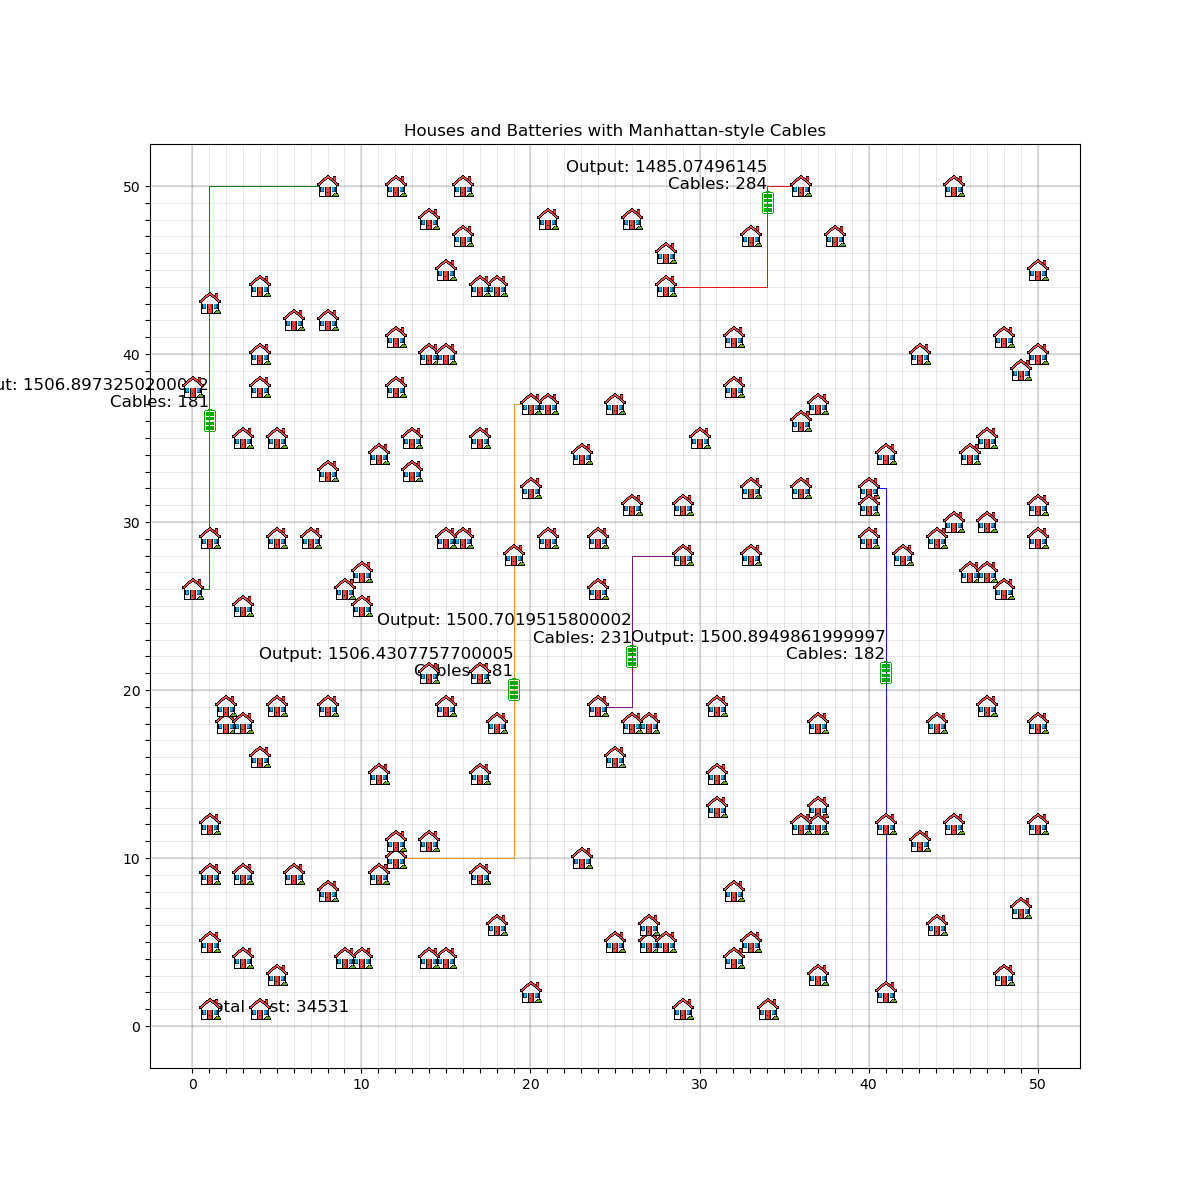
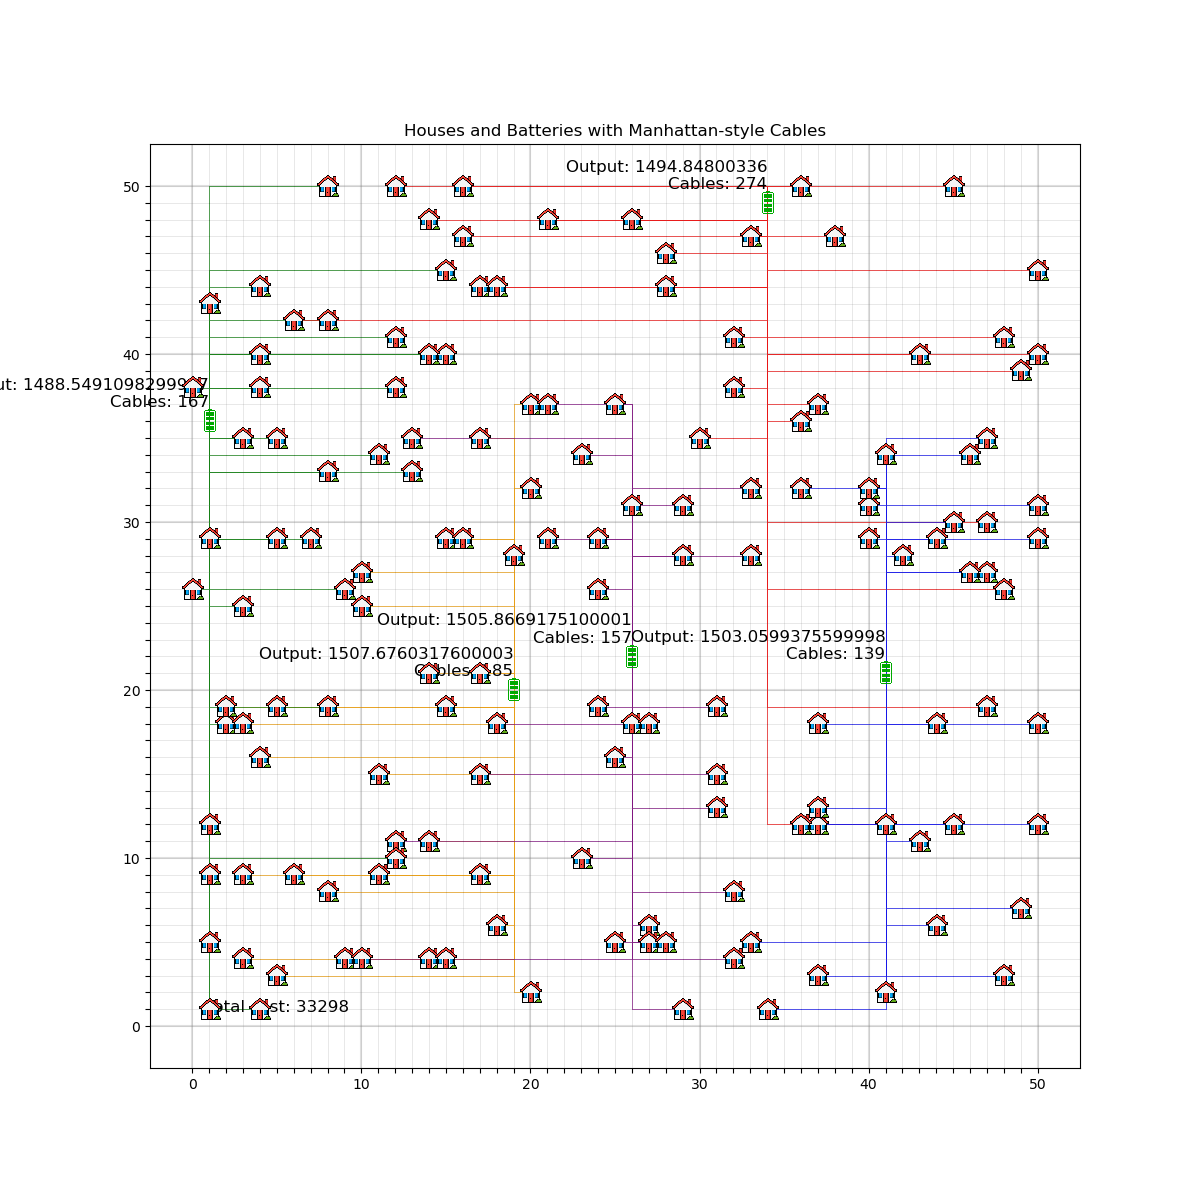
fixed the namings of the alg classes

diff --git a/code/helpers/visualize.py b/code/helpers/visualize.py
@@ -54,9 +54,8 @@ def visualize(district, district_number):
 
     # Store the colors of the batteries to later give the cables that color
     battery_colors = ['orange', 'green', 'red', 'blue', 'purple']
-    
     # Plot batteries
-    for index, battery in enumerate(district.batteries):
+    for battery in experiment_instance.batteries:
         plot_battery(battery_image, battery.x, battery.y)
         
         # Add 5000 to the total cost for every battery
@@ -82,14 +81,6 @@ def visualize(district, district_number):
 
         # Every cable adds 9 to the total cost, since this is the cost formula
         total_cost += total_cables * 9
-
-        #Fix for nearest object to draw cables connected to cables
-        for cable in district.cables:
-            #loop over the batteries by their color index and plot them if connected to a cable
-            battery_color_index = next((index for index, battery in enumerate(district.batteries) if cable.connected_battery == battery), None)
-            if battery_color_index is not None:
-                plt.plot([cable.start_x, cable.end_x], [cable.start_y, cable.end_y], linewidth=0.5, color=battery_colors[battery_color_index], zorder=0)
-
 
         # Annotate the battery with the total output and total cables
         plt.annotate(f'Output: {total_output}\nCables: {total_cables}', 

diff --git a/main.py b/main.py
@@ -9,6 +9,9 @@ import code.classes.cable
 import code.classes.battery
 from code.classes.district import District
 from code.algorithm.random_alg import RandomAlgorithm
+from code.algorithm.nearest_object_rand import nearest_object_rand
+from code.algorithm.nearest_object_x import nearest_object_x
+from code.algorithm.nearest_object_y import nearest_object_y
 from code.helpers.visualize import visualize
 from code.algorithm.nearest_object import nearest_object
 from code.algorithm.nearest_battery import nearest_battery
@@ -28,7 +31,7 @@ def main():
         print(f'District {i+1}')
         # set up experiment
         experiment = District(districts_houses[i], districts_batteries[i])
-        random_instance = nearest_object(experiment)
+        random_instance = nearest_object_rand(experiment)
         random_instance.connect_houses_to_batteries()
         experiment.calculate_totals()
         
@@ -51,5 +54,6 @@ def main():
         #     frames.append([frame_ax])
 
         visualize(experiment, i)
+
 if __name__ == "__main__":
     main()
